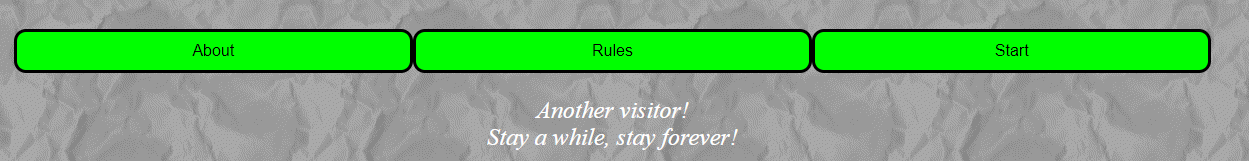
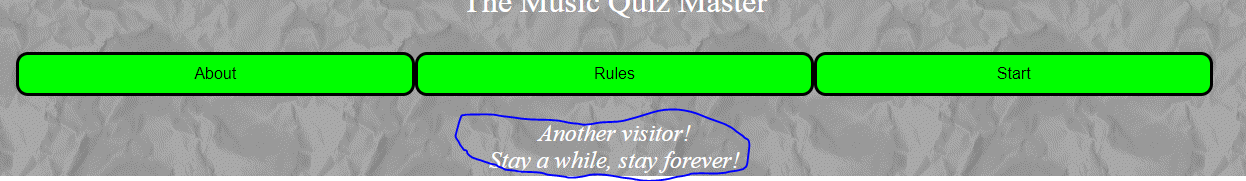
Add: screenshot of buttons for readme

diff --git a/README.md b/README.md
@@ -61,5 +61,11 @@ scales well down to about 200px wide. Lower than that and the responsiveness ten
 
 ## Functional testing
 
+### Start page
+
+Expected look:
+
+![startpage](https://github.com/jonthorell/QuizGame/blob/main/assets/images/readme-files/startscreen.PNG?raw=true)
+
 
 
